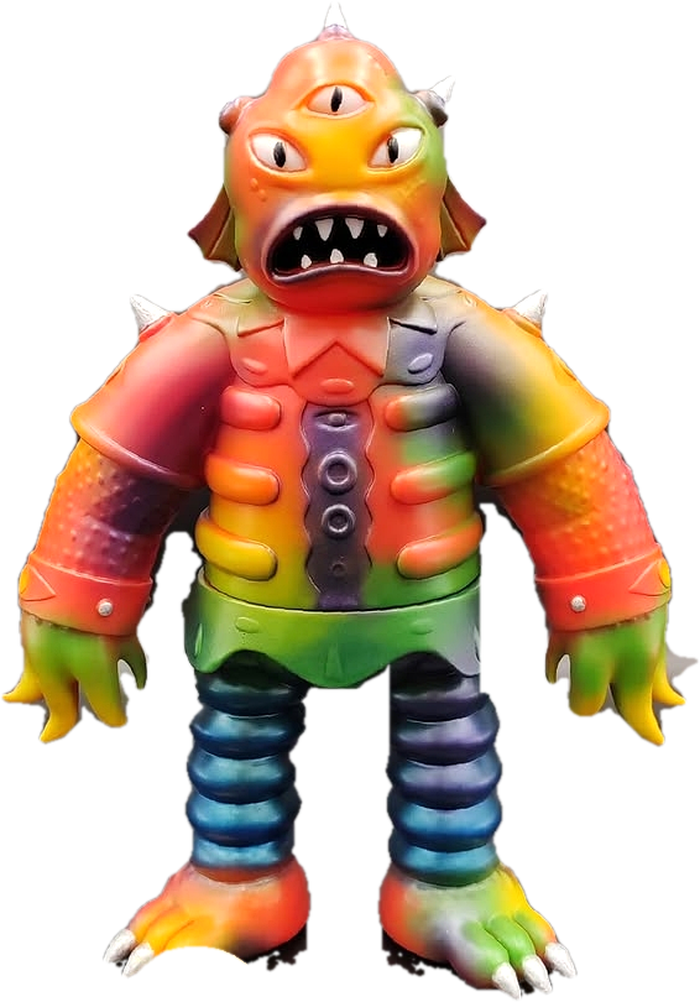
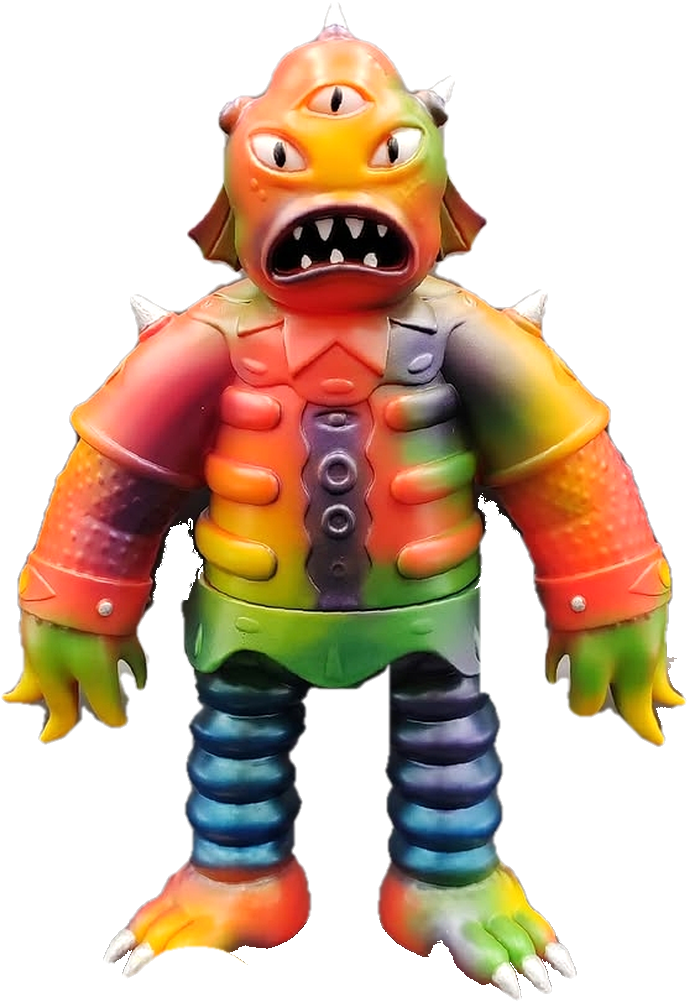
SINTOY: clean up feet and shadows on the cut-out; Paul's page shows just the lighters
Claude-Session: https://claude.ai/code/session_01HW6qdedh368EJ2AC6hKeLE

diff --git a/lib/artists.js b/lib/artists.js
@@ -346,8 +346,7 @@ export const ARTISTS = [
     "categories": [
       "Art prints"
     ],
-    "figure": "/nl/figures/superpowervision-paul-and-lighters.png",
-    "figureFlush": true,
+    "figure": "/nl/figures/superpowervision-lighters.png",
     "cardFigure": "/nl/figures/superpowervision-lighters-upper.png",
     "photoFigure": true,
     "work": []
